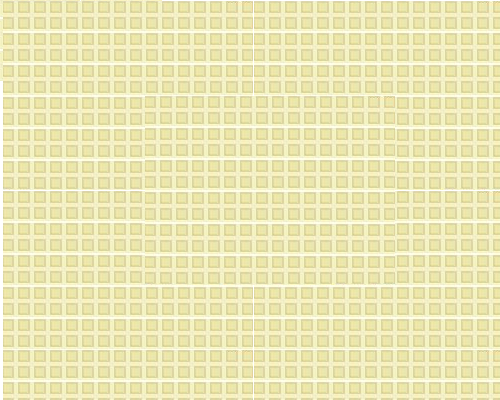
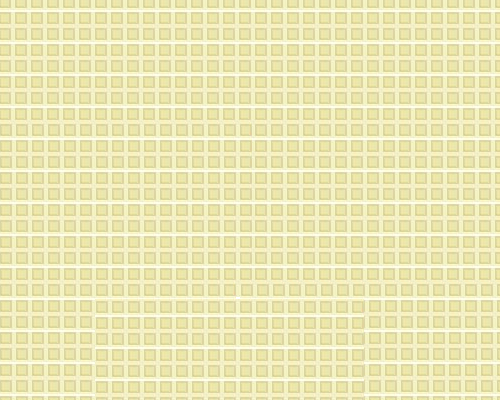
Changes to restaurant and yelp

diff --git a/src/people/PeopleAgent.java b/src/people/PeopleAgent.java
@@ -1011,7 +1011,7 @@ public class PeopleAgent extends Agent implements People{
 						{
 							if(!hasCar)
 							{
-								if(rand.nextInt(100) <= 10)
+								if(rand.nextInt(100) <= 50)
 								{
 									buy = BuyState.GoingToBuy;
 								}
@@ -1071,10 +1071,9 @@ public class PeopleAgent extends Agent implements People{
 		{
 			if(hunger == HungerState.Hungry)
 			{
-				//change this for restaurant
-				if(!Restaurants.get(1).isClosed)
+				if(!Restaurants.get(0).isClosed || !Restaurants.get(1).isClosed || !Restaurants.get(2).isClosed || !Restaurants.get(3).isClosed || !Restaurants.get(4).isClosed || !Restaurants.get(5).isClosed)
 				{
-					if(rand.nextInt(2) <2)
+					if(rand.nextInt(5) <2)
 					{
 						event = AgentEvent.GoingToRestaurant;
 						print("Going To Restaurant To Eat");
@@ -1102,10 +1101,9 @@ public class PeopleAgent extends Agent implements People{
 		{
 			if(hunger == HungerState.Hungry)
 			{
-				//change this for restaurant
-				if(!Restaurants.get(1).isClosed)
+				if(!Restaurants.get(0).isClosed || !Restaurants.get(1).isClosed || !Restaurants.get(2).isClosed || !Restaurants.get(3).isClosed || !Restaurants.get(4).isClosed || !Restaurants.get(5).isClosed)
 				{
-					if(rand.nextInt(2) < 2)
+					if(rand.nextInt(5) < 2)
 					{
 						event = AgentEvent.GoingToRestaurant;
 						print("Going To Restaurant To Eat");
@@ -1973,16 +1971,51 @@ public class PeopleAgent extends Agent implements People{
 						personGui.setDestination("Bank");
 					
 				}
+				else if(type.equals("NormativeB1"))
+				{
+					personGui.setDestination("Bank");
+					print("Do Not Have Car");
+					try {
+						moving.acquire();
+					} catch (InterruptedException e) {
+						e.printStackTrace();
+					}
+				}
 				else
 				{
-				//TODO Randomization
-				personGui.setDestination("Bank");
-				print("Do Not Have Car");
-				try {
-					moving.acquire();
-				} catch (InterruptedException e) {
-					e.printStackTrace();
-				}
+					if(rand.nextInt(10) <= 2)
+					{
+						personGui.setDestination("Bus Stop 1");
+						try {
+							moving.acquire();
+						} catch (InterruptedException e) {
+							e.printStackTrace();
+						}
+						
+						for(MyRole r: roles)
+						{
+							if(r.description == "BusPassenger")
+							{
+								((BusPassengerRole)r.role).setCurrentBusStop(cityGui.cityPanel.busStops.get(0));
+								((BusPassengerRole)r.role).setDestinationPlace("Bank");
+								r.role.msgIsActive();
+							}
+						}
+						try {
+							moving.acquire();
+						} catch (InterruptedException e) {
+							// TODO Auto-generated catch block
+							e.printStackTrace();
+						}
+							personGui.setDestination("Bank");
+					}
+					personGui.setDestination("Bank");
+					print("Do Not Have Car");
+					try {
+						moving.acquire();
+					} catch (InterruptedException e) {
+						e.printStackTrace();
+					}
 				}
 			}
 		}

diff --git a/src/restaurant_wc/gui/RestaurantAnimationPanel.java b/src/restaurant_wc/gui/RestaurantAnimationPanel.java
@@ -30,6 +30,8 @@ public class RestaurantAnimationPanel extends JPanel implements ActionListener {
     private Dimension bufferSize;
     private Graphics2D g2;
     int i = 0;  
+    
+    private ImageIcon floor = new ImageIcon("res/restaurantWc/background.png");
 
     private List<Gui> guis = new ArrayList<Gui>();
 
@@ -63,6 +65,8 @@ public class RestaurantAnimationPanel extends JPanel implements ActionListener {
         //Clear the screen by painting a rectangle the size of the frame
         g2.setColor(getBackground());
         g2.fillRect(0, 0, WINDOWX, WINDOWY );
+        
+        g2.drawImage(floor.getImage(), 0, 0, 500, 400, null);
 
         //Here is the table
         for(int i = 0; i <3; i++)

diff --git a/src/city/gui/CityGui.java b/src/city/gui/CityGui.java
@@ -184,7 +184,7 @@ public class CityGui extends JFrame implements ActionListener {
 		yelp.addRestaurant(restaurant, 5);
 		yelp.addRestaurant(restaurant2, 3);
 		yelp.addRestaurant(restaurant3, 4);
-		yelp.addRestaurant(restaurant4, 50000);
+		yelp.addRestaurant(restaurant4, 4);
 		yelp.addRestaurant(restaurant5, 3);
 		yelp.addRestaurant(restaurant6, 4);
 		
